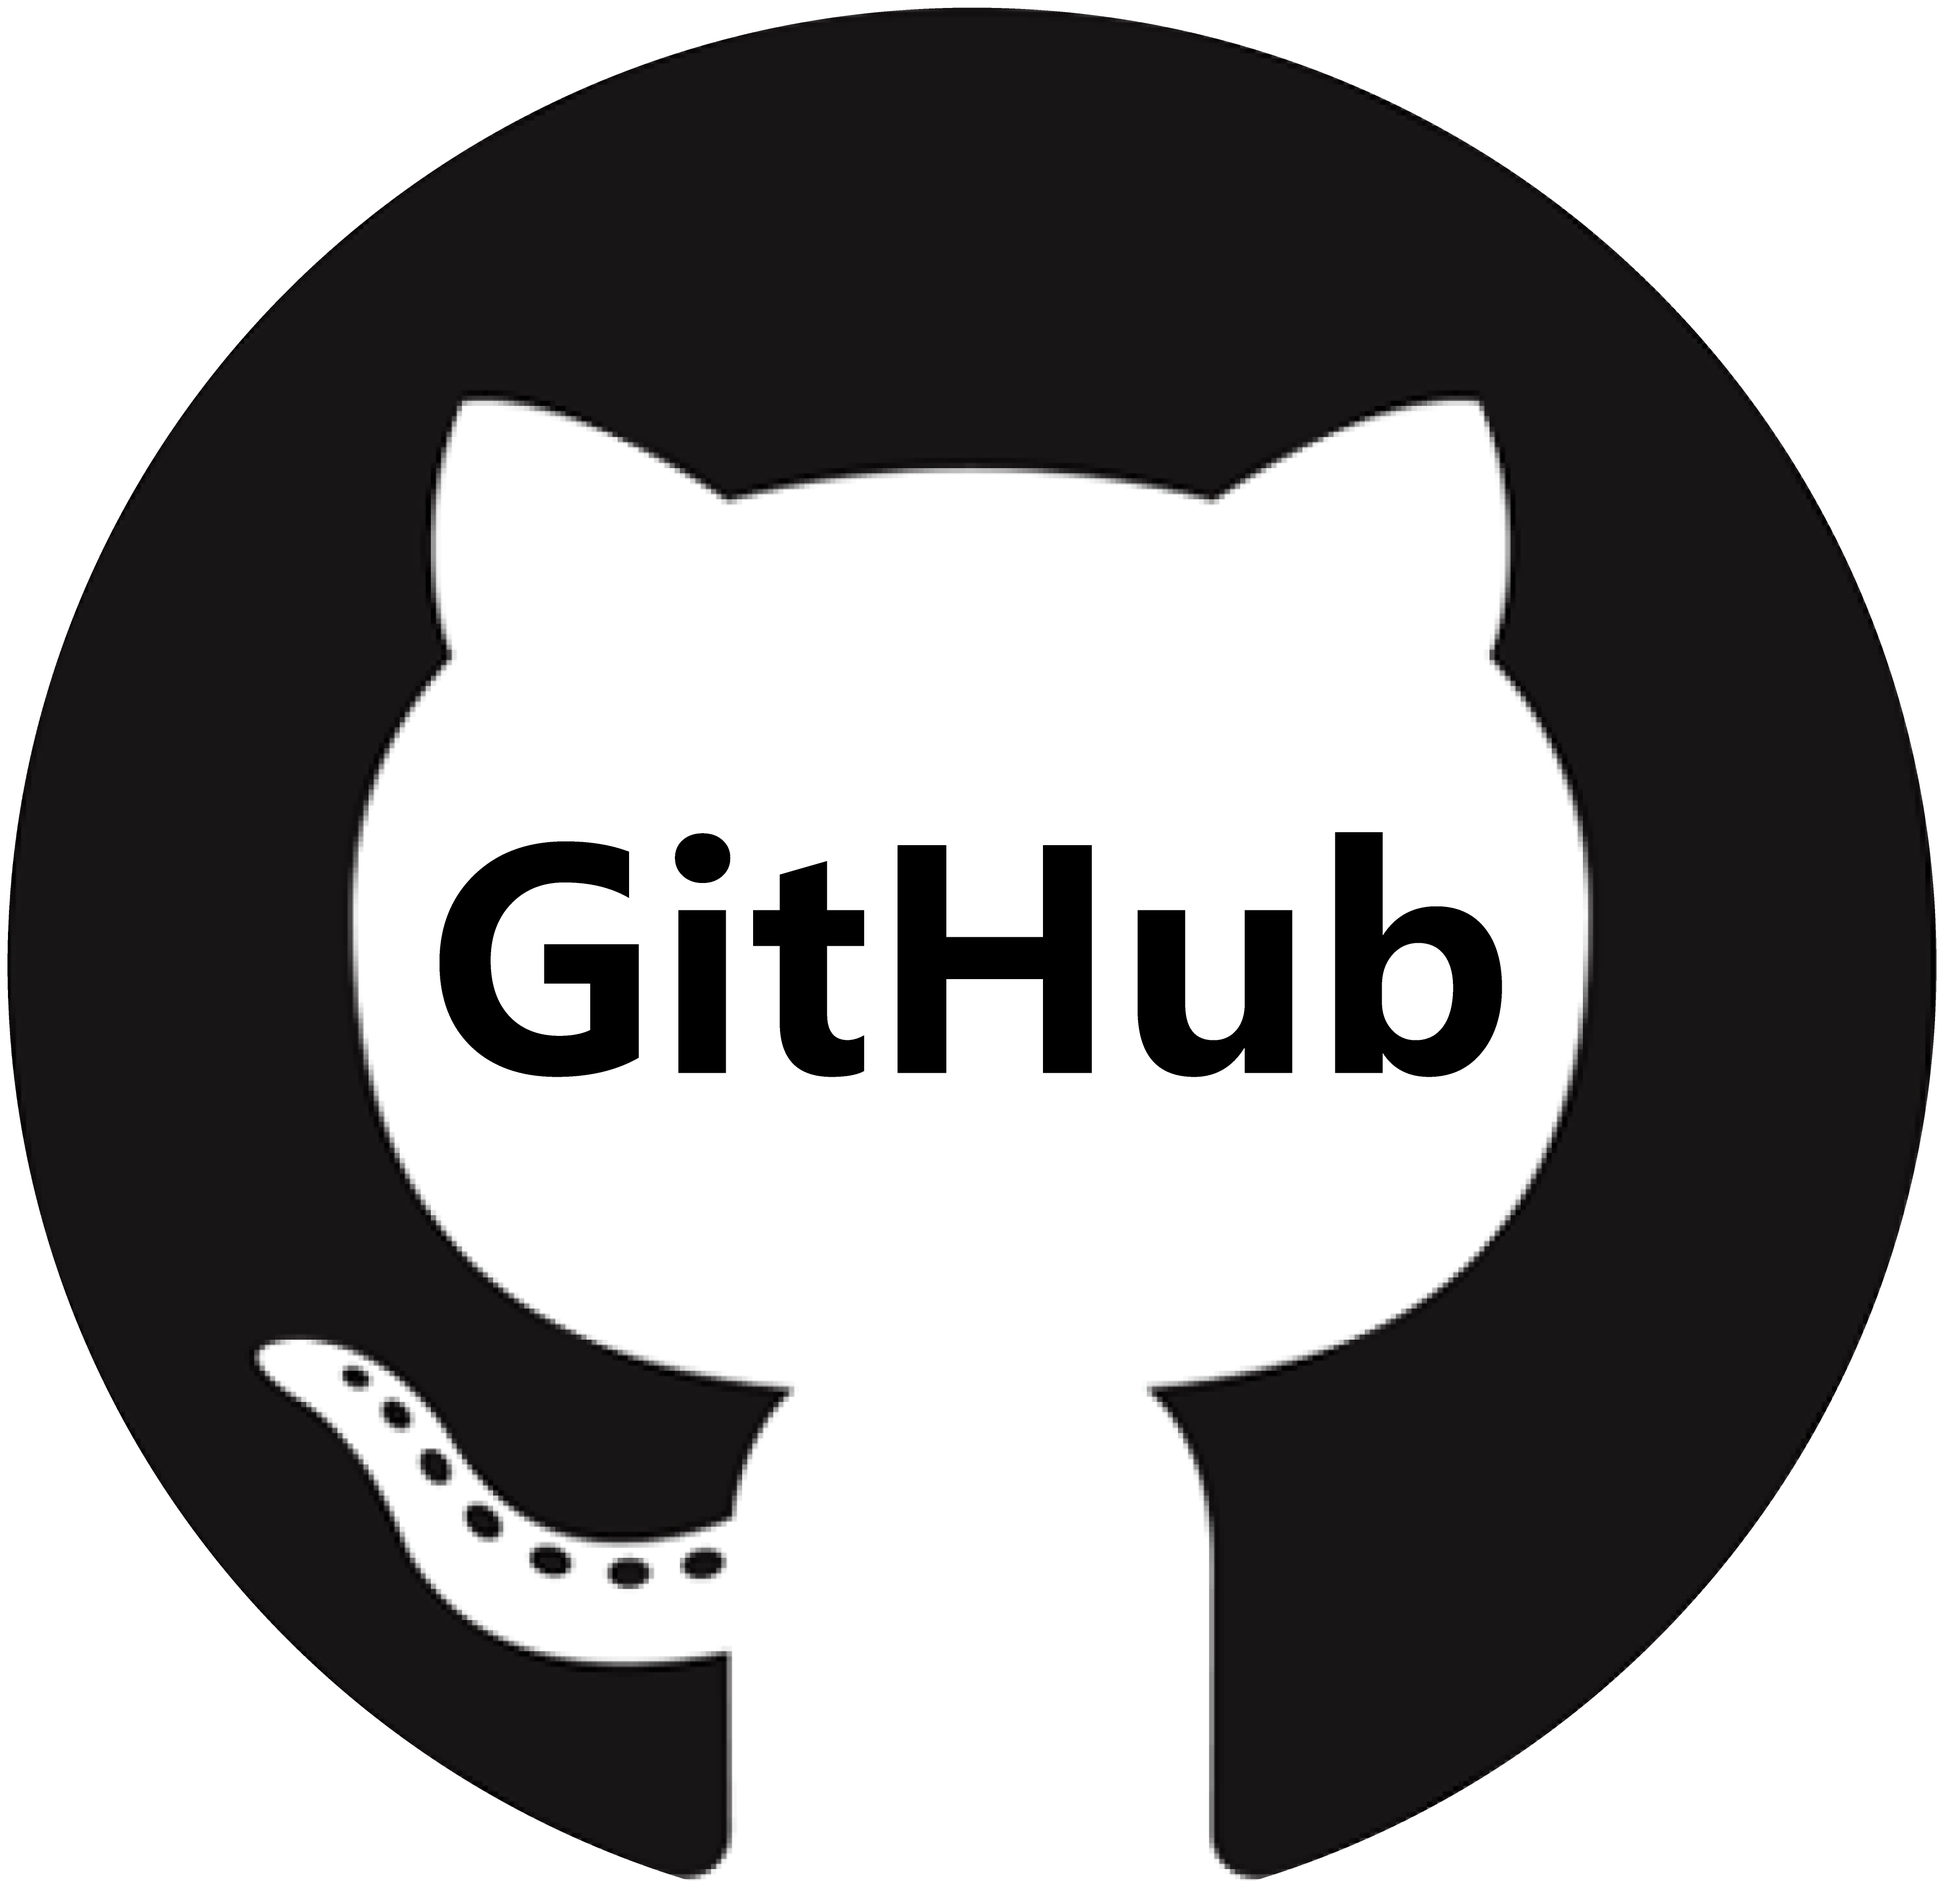
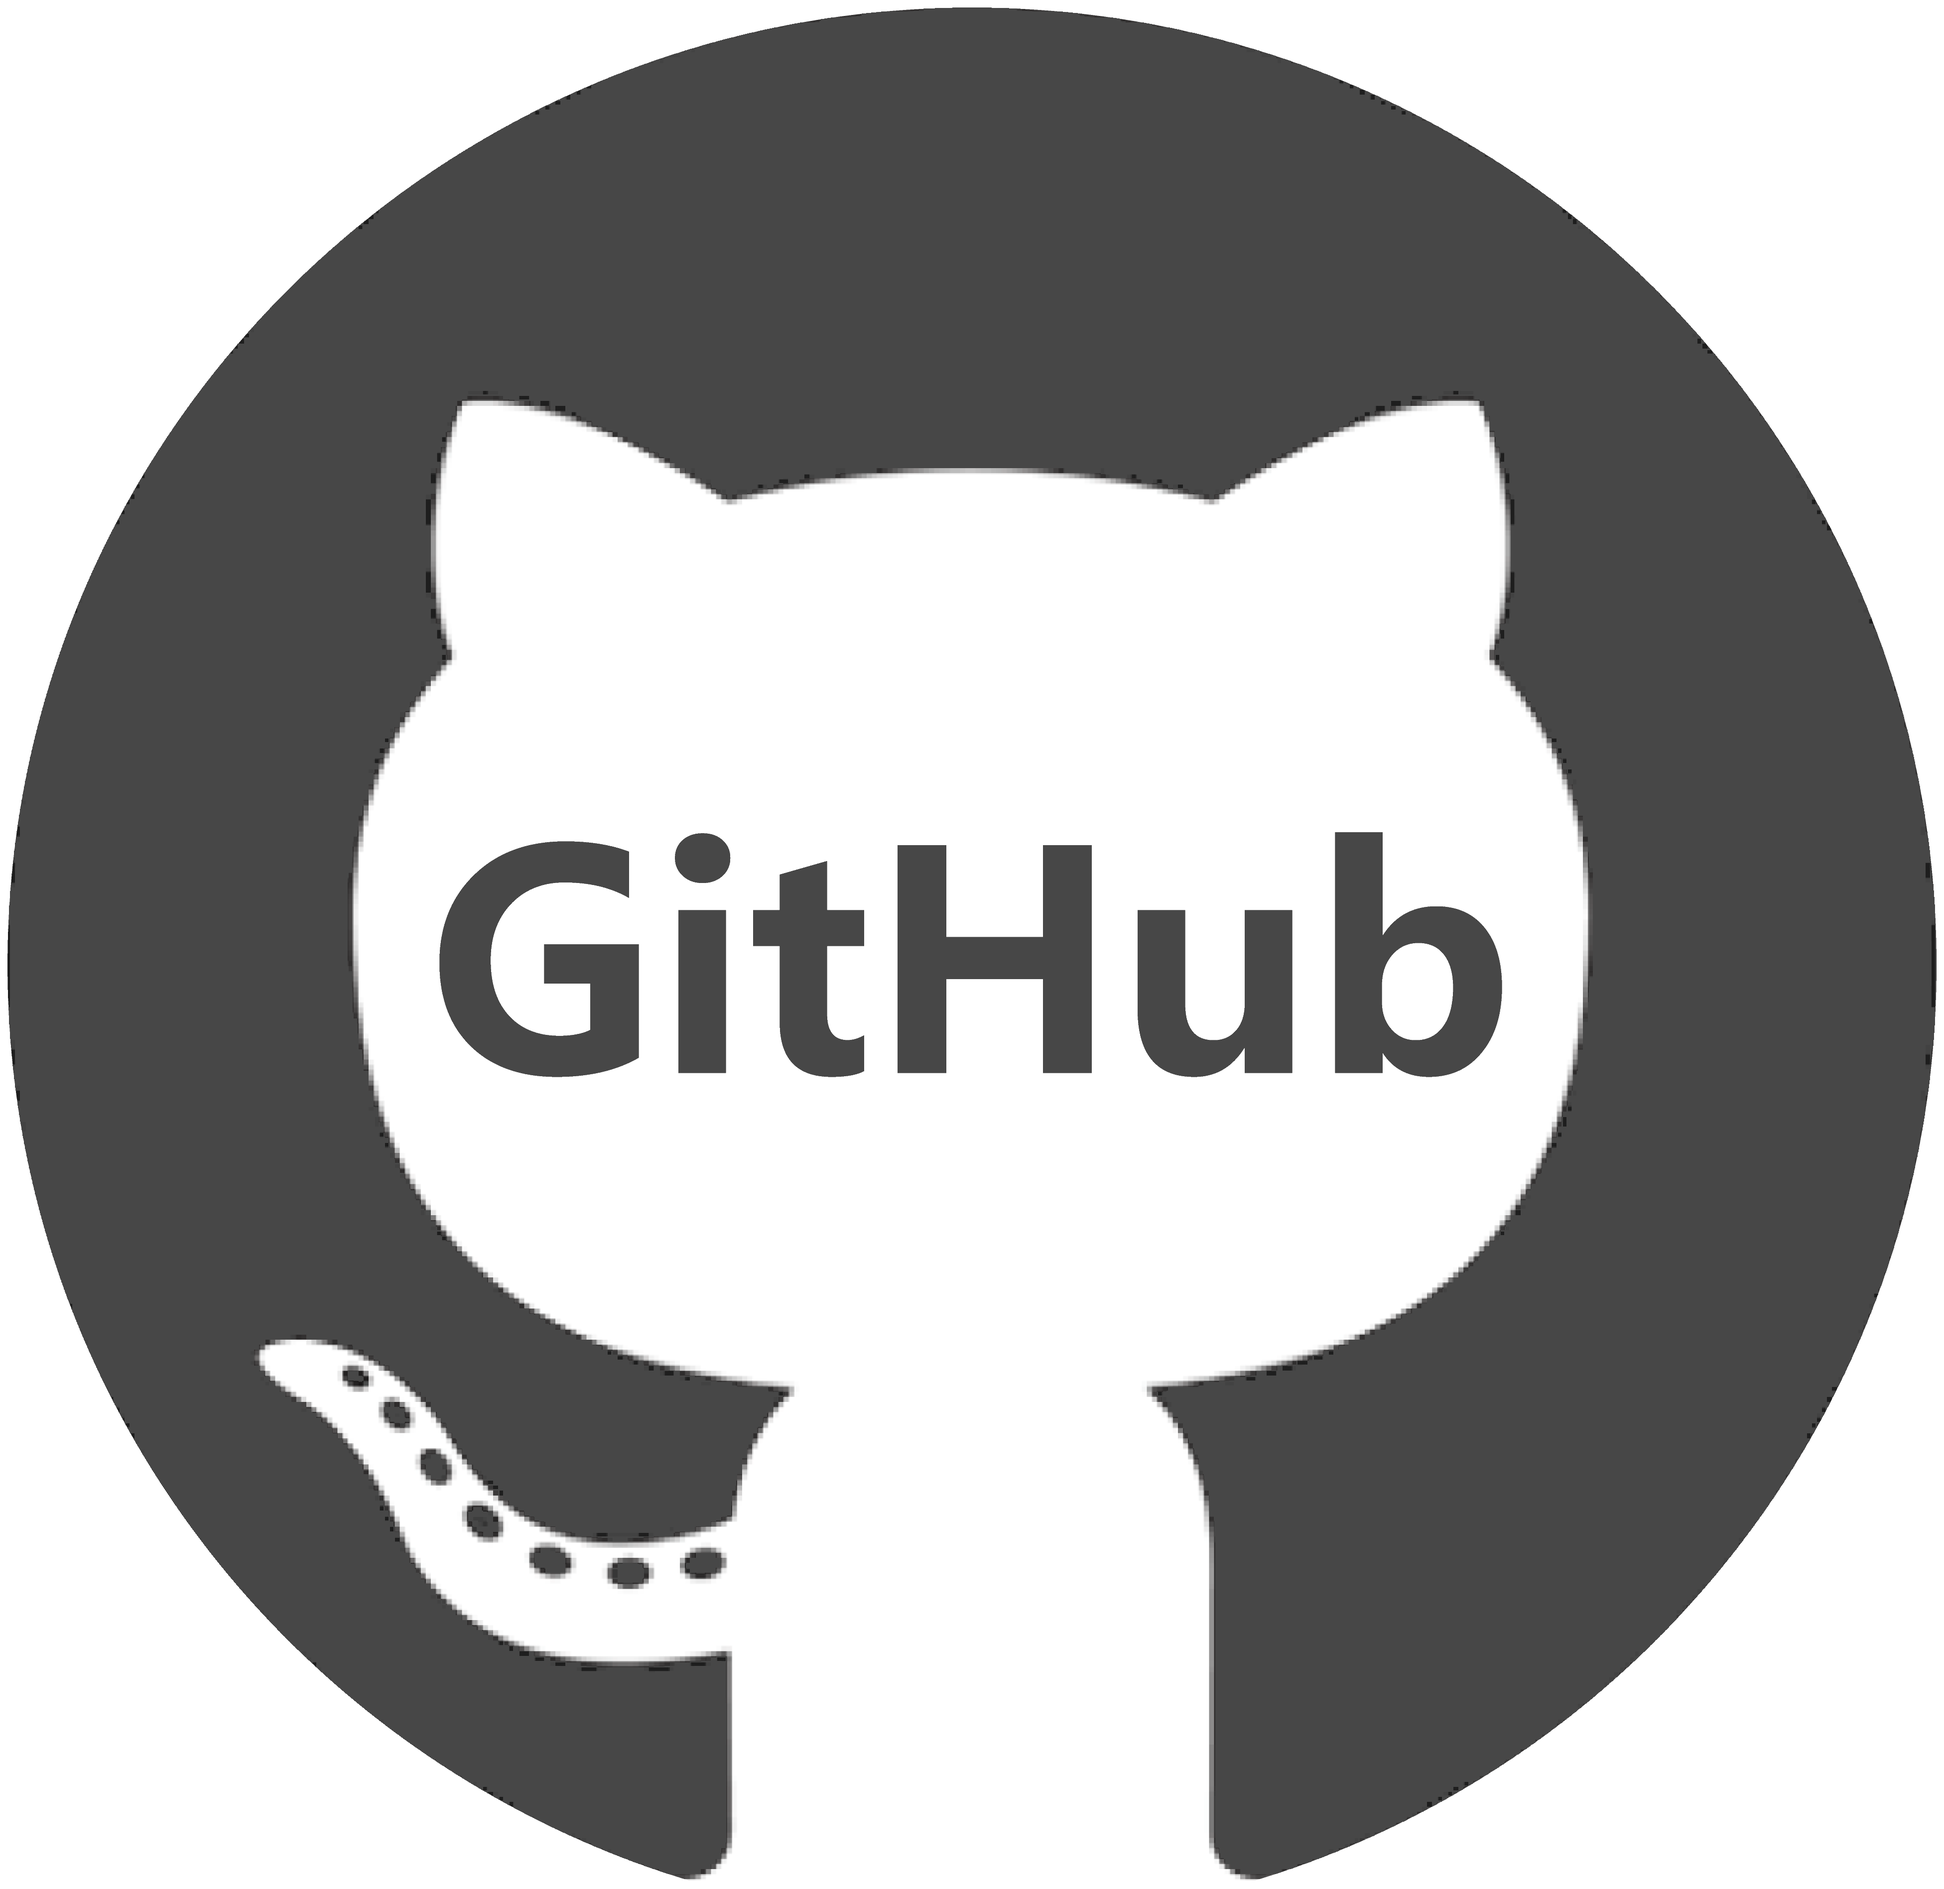
text color now charcoal

diff --git a/src/components/WelcomeElements/WelcomeElements.js b/src/components/WelcomeElements/WelcomeElements.js
@@ -20,7 +20,7 @@ const WelcomeElements = props => {
               target="_blank"
               rel="noopener noreferrer"
             >
-              <img src={imageAssets.gitHubCharcoal} alt="gitHubIcon"></img>
+              <img src={imageAssets.gitHub} alt="gitHubIcon"></img>
             </a>
             <a
               href="https://www.linkedin.com/in/karl-warner-9147661b5/"
@@ -31,8 +31,8 @@ const WelcomeElements = props => {
             </a>
           </div>
         </div>
+        <div className={classes.Divider} />
       </div>
-      <div className={classes.Divider}></div>
       <p className={classes.AboutMe}>
         As a technical and mechanical tinkerer from a young age, I've always
         been drawn to understanding how things work and finding logical

diff --git a/src/assets/assets.js b/src/assets/assets.js
@@ -17,7 +17,6 @@ const imageAssets = {
   sqlite3: require('../assets/sqlite3.png'),
   css: require('../assets/css.png'),
   gitHub: require('../assets/gitHub.png'),
-  gitHubCharcoal: require('../assets/gitHubCharcoal.png'),
   linkedIn: require('../assets/linkedIn.png'),
   linkedInCharcoal: require('../assets/linkedInCharcoal.png'),
   showDemo: require('../assets/showDemo.png'),

diff --git a/src/components/WelcomeElements/WelcomeElements.module.css b/src/components/WelcomeElements/WelcomeElements.module.css
@@ -4,11 +4,7 @@
   padding: 15px 10px 0px 150px;
   border-radius: 90px 0px 0px 90px;
   width: auto;
-}
-
-.Divider {
-  margin-left: 15%;
-  border-bottom: 6px solid black;
+  border-bottom: 6px solid #827A75;
 }
 
 .Title {

diff --git a/src/components/Navigation/NavigationItems/NavigationItem/NavigationItem.module.css b/src/components/Navigation/NavigationItems/NavigationItem/NavigationItem.module.css
@@ -19,6 +19,5 @@
 .NavigationItem a:hover,
 .NavigationItem a:active,
 .NavigationItem a.active {
-  /* background-color: #A9B4C2; */
-  border-bottom: 4px solid #1C2321;
+  border-bottom: 4px solid #474747;
 }

diff --git a/src/containers/Courses/Course/Course.module.css b/src/containers/Courses/Course/Course.module.css
@@ -5,6 +5,7 @@
   margin: 30px 15px 0px 15px;
   box-shadow: 0 5px 10px rgb(0, 0, 0);
   background-color: #f9f4ee;
+  color: #474747;
   display: flex;
   justify-content: space-between;
 }

diff --git a/src/components/Skills/Skills.module.css b/src/components/Skills/Skills.module.css
@@ -17,6 +17,7 @@
 }
 
 .TechLists {
+  color: #474747;
   background-color: #f9f4ee;
   box-shadow: 0 5px 10px rgb(0, 0, 0);
   border-bottom: 1px dotted black;

diff --git a/src/containers/Projects/Project/Project.module.css b/src/containers/Projects/Project/Project.module.css
@@ -1,5 +1,6 @@
 .Project {
   padding: 30px 0 30px 0;
+  color: #474747
 }
 
 .IconsBar {
